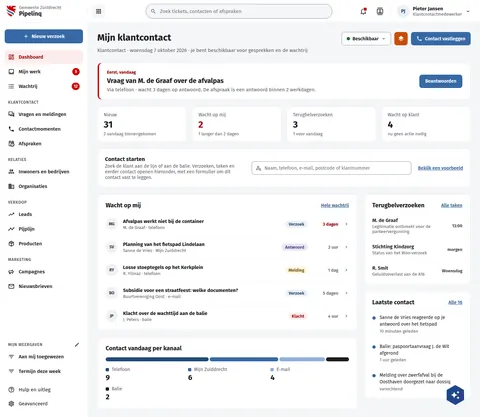
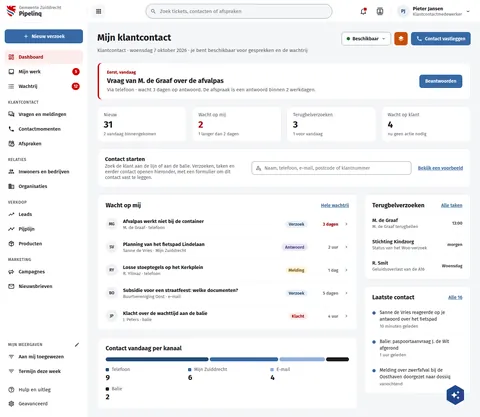
fix(screens): PqBerichtSturen and PqDashboard draw the seeded set
Anna de Vries's phone is 06 12 34 56 79 in the set (06 12 34 56 78 is
Sanne's, which PqGesprekAfronden matches). M. de Graaf's callback task on
PqDashboard is the set's "M. de Graaf terugbellen", as on PqTaak.

Assisted-by: ClaudeCode:claude-opus-5-5

Changed region(s): [[0.75, 0.53, 0.9688, 0.9353], [0.9062, 0.53, 0.9688, 0.6547]]

diff --git a/preview/screens/boards/PqDashboard.html b/preview/screens/boards/PqDashboard.html
@@ -203,7 +203,7 @@ a{color:var(--sc-primary, #3669a5)}a:hover{color:var(--sc-primary-deep, #234a78)
             <a href="PqWerkplekKlant.html" style="font-size: 14px; font-weight: 600">Bekijk een voorbeeld</a>
           </div></section><div style="display: flex; flex-wrap: wrap; gap: 20px; align-items: flex-start">
           <div style="flex: 999 1 520px; min-width: 0; display: flex; flex-direction: column; gap: 20px"><section style="background: #ffffff; border: 1px solid var(--sc-work-line, #e4e6ea); border-radius: 12px; padding: 22px 24px 10px; display: flex; flex-direction: column; gap: 4px"><div style="display: flex; justify-content: space-between; align-items: center; margin-bottom: 8px"><h2 style="margin: 0; font-size: 18px; font-weight: 700; color: var(--sc-work-ink, #1b1c1d)">Wacht op mij</h2><a href="PqWachtrij.html" style="font-size: 14px; font-weight: 600">Hele wachtrij</a></div><a href="PqTicket.html" style="display: flex; flex-wrap: wrap; align-items: center; gap: 8px 16px; padding: 14px 0; border-top: 1px solid var(--sc-work-soft, #eef0f3); color: var(--sc-work-ink, #1b1c1d); text-decoration: none"><span style="width: 36px; height: 36px; flex: none; border-radius: 18px; background: var(--sc-work-chip, #f0f1f3); color: var(--sc-work-text, #3d4047); display: inline-flex; align-items: center; justify-content: center; font-size: 12px; font-weight: 700">MG</span><span style="flex: 1 1 260px; display: flex; flex-direction: column; gap: 2px"><strong style="font-size: 15px">Afvalpas werkt niet bij de container</strong><span style="font-size: 13px; color: var(--sc-work-muted, #5e6168)">M. de Graaf · telefoon</span></span><span style="display: inline-block; padding: 3px 10px; border-radius: 12px; font-size: 13px; font-weight: 600; white-space: nowrap; background: var(--sc-primary-light, #eaf0f7); color: var(--sc-primary-deep, #234a78)">Verzoek</span><span style="flex: 0 0 76px; text-align: right; font-size: 13px; font-weight: 700; color: var(--sc-accent-deep, #a30000)">3 dagen</span><svg width="16" height="16" viewbox="0 0 24 24" fill="#3669a5" style="flex: none;fill:var(--sc-primary, #3669a5)"><path d="M8.59,16.58L13.17,12L8.59,7.41L10,6L16,12L10,18L8.59,16.58Z"></path></svg></a><a href="PqTicket.html" style="display: flex; flex-wrap: wrap; align-items: center; gap: 8px 16px; padding: 14px 0; border-top: 1px solid var(--sc-work-soft, #eef0f3); color: var(--sc-work-ink, #1b1c1d); text-decoration: none"><span style="width: 36px; height: 36px; flex: none; border-radius: 18px; background: var(--sc-work-chip, #f0f1f3); color: var(--sc-work-text, #3d4047); display: inline-flex; align-items: center; justify-content: center; font-size: 12px; font-weight: 700">SV</span><span style="flex: 1 1 260px; display: flex; flex-direction: column; gap: 2px"><strong style="font-size: 15px">Planning van het fietspad Lindelaan</strong><span style="font-size: 13px; color: var(--sc-work-muted, #5e6168)">Sanne de Vries · Mijn Zuiddrecht</span></span><span style="display: inline-block; padding: 3px 10px; border-radius: 12px; font-size: 13px; font-weight: 600; white-space: nowrap; background: #e8e6f6; color: #4a3f8f">Antwoord</span><span style="flex: 0 0 76px; text-align: right; font-size: 13px; font-weight: 500; color: var(--sc-work-muted, #5e6168)">2 uur</span><svg width="16" height="16" viewbox="0 0 24 24" fill="#3669a5" style="flex: none;fill:var(--sc-primary, #3669a5)"><path d="M8.59,16.58L13.17,12L8.59,7.41L10,6L16,12L10,18L8.59,16.58Z"></path></svg></a><a href="PqTicket.html" style="display: flex; flex-wrap: wrap; align-items: center; gap: 8px 16px; padding: 14px 0; border-top: 1px solid var(--sc-work-soft, #eef0f3); color: var(--sc-work-ink, #1b1c1d); text-decoration: none"><span style="width: 36px; height: 36px; flex: none; border-radius: 18px; background: var(--sc-work-chip, #f0f1f3); color: var(--sc-work-text, #3d4047); display: inline-flex; align-items: center; justify-content: center; font-size: 12px; font-weight: 700">RY</span><span style="flex: 1 1 260px; display: flex; flex-direction: column; gap: 2px"><strong style="font-size: 15px">Losse stoeptegels op het Kerkplein</strong><span style="font-size: 13px; color: var(--sc-work-muted, #5e6168)">R. Yilmaz · telefoon</span></span><span style="display: inline-block; padding: 3px 10px; border-radius: 12px; font-size: 13px; font-weight: 600; white-space: nowrap; background: #fff4de; color: #7a4f00">Melding</span><span style="flex: 0 0 76px; text-align: right; font-size: 13px; font-weight: 500; color: var(--sc-work-muted, #5e6168)">1 dag</span><svg width="16" height="16" viewbox="0 0 24 24" fill="#3669a5" style="flex: none;fill:var(--sc-primary, #3669a5)"><path d="M8.59,16.58L13.17,12L8.59,7.41L10,6L16,12L10,18L8.59,16.58Z"></path></svg></a><a href="PqTicket.html" style="display: flex; flex-wrap: wrap; align-items: center; gap: 8px 16px; padding: 14px 0; border-top: 1px solid var(--sc-work-soft, #eef0f3); color: var(--sc-work-ink, #1b1c1d); text-decoration: none"><span style="width: 36px; height: 36px; flex: none; border-radius: 18px; background: var(--sc-work-chip, #f0f1f3); color: var(--sc-work-text, #3d4047); display: inline-flex; align-items: center; justify-content: center; font-size: 12px; font-weight: 700">BO</span><span style="flex: 1 1 260px; display: flex; flex-direction: column; gap: 2px"><strong style="font-size: 15px">Subsidie voor een straatfeest: welke documenten?</strong><span style="font-size: 13px; color: var(--sc-work-muted, #5e6168)">Buurtvereniging Oost · e-mail</span></span><span style="display: inline-block; padding: 3px 10px; border-radius: 12px; font-size: 13px; font-weight: 600; white-space: nowrap; background: var(--sc-primary-light, #eaf0f7); color: var(--sc-primary-deep, #234a78)">Verzoek</span><span style="flex: 0 0 76px; text-align: right; font-size: 13px; font-weight: 500; color: var(--sc-work-muted, #5e6168)">5 dagen</span><svg width="16" height="16" viewbox="0 0 24 24" fill="#3669a5" style="flex: none;fill:var(--sc-primary, #3669a5)"><path d="M8.59,16.58L13.17,12L8.59,7.41L10,6L16,12L10,18L8.59,16.58Z"></path></svg></a><a href="PqTicket.html" style="display: flex; flex-wrap: wrap; align-items: center; gap: 8px 16px; padding: 14px 0; border-top: 1px solid var(--sc-work-soft, #eef0f3); color: var(--sc-work-ink, #1b1c1d); text-decoration: none"><span style="width: 36px; height: 36px; flex: none; border-radius: 18px; background: var(--sc-work-chip, #f0f1f3); color: var(--sc-work-text, #3d4047); display: inline-flex; align-items: center; justify-content: center; font-size: 12px; font-weight: 700">JP</span><span style="flex: 1 1 260px; display: flex; flex-direction: column; gap: 2px"><strong style="font-size: 15px">Klacht over de wachttijd aan de balie</strong><span style="font-size: 13px; color: var(--sc-work-muted, #5e6168)">J. Peters · balie</span></span><span style="display: inline-block; padding: 3px 10px; border-radius: 12px; font-size: 13px; font-weight: 600; white-space: nowrap; background: #fcedec; color: var(--sc-accent-deep, #a30000)">Klacht</span><span style="flex: 0 0 76px; text-align: right; font-size: 13px; font-weight: 500; color: var(--sc-work-muted, #5e6168)">4 uur</span><svg width="16" height="16" viewbox="0 0 24 24" fill="#3669a5" style="flex: none;fill:var(--sc-primary, #3669a5)"><path d="M8.59,16.58L13.17,12L8.59,7.41L10,6L16,12L10,18L8.59,16.58Z"></path></svg></a></section><section style="background: #ffffff; border: 1px solid var(--sc-work-line, #e4e6ea); border-radius: 12px; padding: 22px 24px; display: flex; flex-direction: column; gap: 16px"><h2 style="margin: 0; font-size: 18px; font-weight: 700; color: var(--sc-work-ink, #1b1c1d)">Contact vandaag per kanaal</h2><div aria-hidden="true" style="display: flex; gap: 3px; height: 12px"><span style="flex: 9; border-radius: 6px; background: var(--sc-primary-deep, #234a78)"></span><span style="flex: 6; border-radius: 6px; background: var(--sc-primary, #3669a5)"></span><span style="flex: 4; border-radius: 6px; background: #8fb0d9"></span><span style="flex: 2; border-radius: 6px; background: var(--sc-work-ink, #1b1c1d)"></span></div><ul style="margin: 0; padding: 0; list-style: none; display: grid; grid-template-columns: repeat(auto-fit, minmax(200px, 1fr)); gap: 12px"><li style="display: flex; flex-direction: column; gap: 2px"><span style="display: flex; align-items: center; gap: 8px; font-size: 14px; color: var(--sc-work-muted, #5e6168)"><span style="width: 10px; height: 10px; border-radius: 3px; background: var(--sc-primary-deep, #234a78)"></span>Telefoon</span><strong style="font-size: 22px; font-weight: 700">9</strong></li><li style="display: flex; flex-direction: column; gap: 2px"><span style="display: flex; align-items: center; gap: 8px; font-size: 14px; color: var(--sc-work-muted, #5e6168)"><span style="width: 10px; height: 10px; border-radius: 3px; background: var(--sc-primary, #3669a5)"></span>Mijn Zuiddrecht</span><strong style="font-size: 22px; font-weight: 700">6</strong></li><li style="display: flex; flex-direction: column; gap: 2px"><span style="display: flex; align-items: center; gap: 8px; font-size: 14px; color: var(--sc-work-muted, #5e6168)"><span style="width: 10px; height: 10px; border-radius: 3px; background: #8fb0d9"></span>E-mail</span><strong style="font-size: 22px; font-weight: 700">4</strong></li><li style="display: flex; flex-direction: column; gap: 2px"><span style="display: flex; align-items: center; gap: 8px; font-size: 14px; color: var(--sc-work-muted, #5e6168)"><span style="width: 10px; height: 10px; border-radius: 3px; background: var(--sc-work-ink, #1b1c1d)"></span>Balie</span><strong style="font-size: 22px; font-weight: 700">2</strong></li></ul></section></div>
-          <div style="flex: 1 1 320px; min-width: 0; display: flex; flex-direction: column; gap: 20px"><section style="background: #ffffff; border: 1px solid var(--sc-work-line, #e4e6ea); border-radius: 12px; padding: 22px 24px 10px; display: flex; flex-direction: column; gap: 4px"><div style="display: flex; justify-content: space-between; align-items: center; margin-bottom: 8px"><h2 style="margin: 0; font-size: 18px; font-weight: 700; color: var(--sc-work-ink, #1b1c1d)">Terugbelverzoeken</h2><a href="PqTaken.html" style="font-size: 14px; font-weight: 600">Alle taken</a></div><div style="display: flex; align-items: center; gap: 12px; padding: 12px 0; border-top: 1px solid var(--sc-work-soft, #eef0f3)"><span style="flex: 1; display: flex; flex-direction: column; gap: 2px"><span style="font-size: 15px; font-weight: 600">M. de Graaf</span><span style="font-size: 13px; color: var(--sc-work-muted, #5e6168)">Legitimatie ontbreekt voor de parkeervergunning</span></span><span style="font-size: 13px; font-weight: 600; color: var(--sc-work-text, #3d4047)">13:00</span></div><div style="display: flex; align-items: center; gap: 12px; padding: 12px 0; border-top: 1px solid var(--sc-work-soft, #eef0f3)"><span style="flex: 1; display: flex; flex-direction: column; gap: 2px"><span style="font-size: 15px; font-weight: 600">Stichting Kindzorg</span><span style="font-size: 13px; color: var(--sc-work-muted, #5e6168)">Status van het Woo-verzoek</span></span><span style="font-size: 13px; font-weight: 600; color: var(--sc-work-text, #3d4047)">morgen</span></div><div style="display: flex; align-items: center; gap: 12px; padding: 12px 0; border-top: 1px solid var(--sc-work-soft, #eef0f3)"><span style="flex: 1; display: flex; flex-direction: column; gap: 2px"><span style="font-size: 15px; font-weight: 600">R. Smit</span><span style="font-size: 13px; color: var(--sc-work-muted, #5e6168)">Geluidsoverlast van de A16</span></span><span style="font-size: 13px; font-weight: 600; color: var(--sc-work-text, #3d4047)">Woensdag</span></div></section><section style="background: #ffffff; border: 1px solid var(--sc-work-line, #e4e6ea); border-radius: 12px; padding: 22px 24px 10px; display: flex; flex-direction: column; gap: 4px"><div style="display: flex; justify-content: space-between; align-items: center; margin-bottom: 8px"><h2 style="margin: 0; font-size: 18px; font-weight: 700; color: var(--sc-work-ink, #1b1c1d)">Laatste contact</h2><a href="PqContactmomenten.html" style="font-size: 14px; font-weight: 600">Alle 16</a></div><div style="display: flex; gap: 12px; padding: 12px 0; border-top: 1px solid var(--sc-work-soft, #eef0f3)"><span style="width: 10px; height: 10px; flex: none; margin-top: 6px; border-radius: 5px; background: var(--sc-primary, #3669a5)"></span><span style="display: flex; flex-direction: column; gap: 2px"><span style="font-size: 14px; line-height: 1.45">Sanne de Vries reageerde op je antwoord over het fietspad</span><span style="font-size: 13px; color: var(--sc-work-muted, #5e6168)">10 minuten geleden</span></span></div><div style="display: flex; gap: 12px; padding: 12px 0; border-top: 1px solid var(--sc-work-soft, #eef0f3)"><span style="width: 10px; height: 10px; flex: none; margin-top: 6px; border-radius: 5px; background: var(--sc-primary, #3669a5)"></span><span style="display: flex; flex-direction: column; gap: 2px"><span style="font-size: 14px; line-height: 1.45">Balie: paspoortaanvraag J. de Wit afgerond</span><span style="font-size: 13px; color: var(--sc-work-muted, #5e6168)">1 uur geleden</span></span></div><div style="display: flex; gap: 12px; padding: 12px 0; border-top: 1px solid var(--sc-work-soft, #eef0f3)"><span style="width: 10px; height: 10px; flex: none; margin-top: 6px; border-radius: 5px; background: var(--sc-primary, #3669a5)"></span><span style="display: flex; flex-direction: column; gap: 2px"><span style="font-size: 14px; line-height: 1.45">Melding over zwerfafval bij de Oosthaven doorgezet naar dossiq</span><span style="font-size: 13px; color: var(--sc-work-muted, #5e6168)">vanochtend</span></span></div></section></div>
+          <div style="flex: 1 1 320px; min-width: 0; display: flex; flex-direction: column; gap: 20px"><section style="background: #ffffff; border: 1px solid var(--sc-work-line, #e4e6ea); border-radius: 12px; padding: 22px 24px 10px; display: flex; flex-direction: column; gap: 4px"><div style="display: flex; justify-content: space-between; align-items: center; margin-bottom: 8px"><h2 style="margin: 0; font-size: 18px; font-weight: 700; color: var(--sc-work-ink, #1b1c1d)">Terugbelverzoeken</h2><a href="PqTaken.html" style="font-size: 14px; font-weight: 600">Alle taken</a></div><div style="display: flex; align-items: center; gap: 12px; padding: 12px 0; border-top: 1px solid var(--sc-work-soft, #eef0f3)"><span style="flex: 1; display: flex; flex-direction: column; gap: 2px"><span style="font-size: 15px; font-weight: 600">M. de Graaf</span><span style="font-size: 13px; color: var(--sc-work-muted, #5e6168)">M. de Graaf terugbellen</span></span><span style="font-size: 13px; font-weight: 600; color: var(--sc-work-text, #3d4047)">13:00</span></div><div style="display: flex; align-items: center; gap: 12px; padding: 12px 0; border-top: 1px solid var(--sc-work-soft, #eef0f3)"><span style="flex: 1; display: flex; flex-direction: column; gap: 2px"><span style="font-size: 15px; font-weight: 600">Stichting Kindzorg</span><span style="font-size: 13px; color: var(--sc-work-muted, #5e6168)">Status van het Woo-verzoek</span></span><span style="font-size: 13px; font-weight: 600; color: var(--sc-work-text, #3d4047)">morgen</span></div><div style="display: flex; align-items: center; gap: 12px; padding: 12px 0; border-top: 1px solid var(--sc-work-soft, #eef0f3)"><span style="flex: 1; display: flex; flex-direction: column; gap: 2px"><span style="font-size: 15px; font-weight: 600">R. Smit</span><span style="font-size: 13px; color: var(--sc-work-muted, #5e6168)">Geluidsoverlast van de A16</span></span><span style="font-size: 13px; font-weight: 600; color: var(--sc-work-text, #3d4047)">Woensdag</span></div></section><section style="background: #ffffff; border: 1px solid var(--sc-work-line, #e4e6ea); border-radius: 12px; padding: 22px 24px 10px; display: flex; flex-direction: column; gap: 4px"><div style="display: flex; justify-content: space-between; align-items: center; margin-bottom: 8px"><h2 style="margin: 0; font-size: 18px; font-weight: 700; color: var(--sc-work-ink, #1b1c1d)">Laatste contact</h2><a href="PqContactmomenten.html" style="font-size: 14px; font-weight: 600">Alle 16</a></div><div style="display: flex; gap: 12px; padding: 12px 0; border-top: 1px solid var(--sc-work-soft, #eef0f3)"><span style="width: 10px; height: 10px; flex: none; margin-top: 6px; border-radius: 5px; background: var(--sc-primary, #3669a5)"></span><span style="display: flex; flex-direction: column; gap: 2px"><span style="font-size: 14px; line-height: 1.45">Sanne de Vries reageerde op je antwoord over het fietspad</span><span style="font-size: 13px; color: var(--sc-work-muted, #5e6168)">10 minuten geleden</span></span></div><div style="display: flex; gap: 12px; padding: 12px 0; border-top: 1px solid var(--sc-work-soft, #eef0f3)"><span style="width: 10px; height: 10px; flex: none; margin-top: 6px; border-radius: 5px; background: var(--sc-primary, #3669a5)"></span><span style="display: flex; flex-direction: column; gap: 2px"><span style="font-size: 14px; line-height: 1.45">Balie: paspoortaanvraag J. de Wit afgerond</span><span style="font-size: 13px; color: var(--sc-work-muted, #5e6168)">1 uur geleden</span></span></div><div style="display: flex; gap: 12px; padding: 12px 0; border-top: 1px solid var(--sc-work-soft, #eef0f3)"><span style="width: 10px; height: 10px; flex: none; margin-top: 6px; border-radius: 5px; background: var(--sc-primary, #3669a5)"></span><span style="display: flex; flex-direction: column; gap: 2px"><span style="font-size: 14px; line-height: 1.45">Melding over zwerfafval bij de Oosthaven doorgezet naar dossiq</span><span style="font-size: 13px; color: var(--sc-work-muted, #5e6168)">vanochtend</span></span></div></section></div>
         </div>
       </main>
     </div>

diff --git a/screens-src/zuiddrecht/PqDashboard.dc.html b/screens-src/zuiddrecht/PqDashboard.dc.html
@@ -44,7 +44,7 @@ a{color:#3669a5}a:hover{color:#234a78}
             <a href="PqWerkplekKlant.dc.html" style="font-size: 14px; font-weight: 600">Bekijk een voorbeeld</a>
           </div></section><div style="display: flex; flex-wrap: wrap; gap: 20px; align-items: flex-start">
           <div style="flex: 999 1 520px; min-width: 0; display: flex; flex-direction: column; gap: 20px"><section style="background: #ffffff; border: 1px solid #e4e6ea; border-radius: 12px; padding: 22px 24px 10px; display: flex; flex-direction: column; gap: 4px"><div style="display: flex; justify-content: space-between; align-items: center; margin-bottom: 8px"><h2 style="margin: 0; font-size: 18px; font-weight: 700; color: #1b1c1d">Wacht op mij</h2><a href="PqWachtrij.dc.html" style="font-size: 14px; font-weight: 600">Hele wachtrij</a></div><a href="PqTicket.dc.html" style="display: flex; flex-wrap: wrap; align-items: center; gap: 8px 16px; padding: 14px 0; border-top: 1px solid #eef0f3; color: #1b1c1d; text-decoration: none"><span style="width: 36px; height: 36px; flex: none; border-radius: 18px; background: #f0f1f3; color: #3d4047; display: inline-flex; align-items: center; justify-content: center; font-size: 12px; font-weight: 700">MG</span><span style="flex: 1 1 260px; display: flex; flex-direction: column; gap: 2px"><strong style="font-size: 15px">Afvalpas werkt niet bij de container</strong><span style="font-size: 13px; color: #5e6168">M. de Graaf · telefoon</span></span><span style="display: inline-block; padding: 3px 10px; border-radius: 12px; font-size: 13px; font-weight: 600; white-space: nowrap; background: #eaf0f7; color: #234a78">Verzoek</span><span style="flex: 0 0 76px; text-align: right; font-size: 13px; font-weight: 700; color: #a30000">3 dagen</span><svg width="16" height="16" viewBox="0 0 24 24" fill="#3669a5" style="flex: none"><path d="M8.59,16.58L13.17,12L8.59,7.41L10,6L16,12L10,18L8.59,16.58Z"></path></svg></a><a href="PqTicket.dc.html" style="display: flex; flex-wrap: wrap; align-items: center; gap: 8px 16px; padding: 14px 0; border-top: 1px solid #eef0f3; color: #1b1c1d; text-decoration: none"><span style="width: 36px; height: 36px; flex: none; border-radius: 18px; background: #f0f1f3; color: #3d4047; display: inline-flex; align-items: center; justify-content: center; font-size: 12px; font-weight: 700">SV</span><span style="flex: 1 1 260px; display: flex; flex-direction: column; gap: 2px"><strong style="font-size: 15px">Planning van het fietspad Lindelaan</strong><span style="font-size: 13px; color: #5e6168">Sanne de Vries · Mijn Zuiddrecht</span></span><span style="display: inline-block; padding: 3px 10px; border-radius: 12px; font-size: 13px; font-weight: 600; white-space: nowrap; background: #e8e6f6; color: #4a3f8f">Antwoord</span><span style="flex: 0 0 76px; text-align: right; font-size: 13px; font-weight: 500; color: #5e6168">2 uur</span><svg width="16" height="16" viewBox="0 0 24 24" fill="#3669a5" style="flex: none"><path d="M8.59,16.58L13.17,12L8.59,7.41L10,6L16,12L10,18L8.59,16.58Z"></path></svg></a><a href="PqTicket.dc.html" style="display: flex; flex-wrap: wrap; align-items: center; gap: 8px 16px; padding: 14px 0; border-top: 1px solid #eef0f3; color: #1b1c1d; text-decoration: none"><span style="width: 36px; height: 36px; flex: none; border-radius: 18px; background: #f0f1f3; color: #3d4047; display: inline-flex; align-items: center; justify-content: center; font-size: 12px; font-weight: 700">RY</span><span style="flex: 1 1 260px; display: flex; flex-direction: column; gap: 2px"><strong style="font-size: 15px">Losse stoeptegels op het Kerkplein</strong><span style="font-size: 13px; color: #5e6168">R. Yilmaz · telefoon</span></span><span style="display: inline-block; padding: 3px 10px; border-radius: 12px; font-size: 13px; font-weight: 600; white-space: nowrap; background: #fff4de; color: #7a4f00">Melding</span><span style="flex: 0 0 76px; text-align: right; font-size: 13px; font-weight: 500; color: #5e6168">1 dag</span><svg width="16" height="16" viewBox="0 0 24 24" fill="#3669a5" style="flex: none"><path d="M8.59,16.58L13.17,12L8.59,7.41L10,6L16,12L10,18L8.59,16.58Z"></path></svg></a><a href="PqTicket.dc.html" style="display: flex; flex-wrap: wrap; align-items: center; gap: 8px 16px; padding: 14px 0; border-top: 1px solid #eef0f3; color: #1b1c1d; text-decoration: none"><span style="width: 36px; height: 36px; flex: none; border-radius: 18px; background: #f0f1f3; color: #3d4047; display: inline-flex; align-items: center; justify-content: center; font-size: 12px; font-weight: 700">BO</span><span style="flex: 1 1 260px; display: flex; flex-direction: column; gap: 2px"><strong style="font-size: 15px">Subsidie voor een straatfeest: welke documenten?</strong><span style="font-size: 13px; color: #5e6168">Buurtvereniging Oost · e-mail</span></span><span style="display: inline-block; padding: 3px 10px; border-radius: 12px; font-size: 13px; font-weight: 600; white-space: nowrap; background: #eaf0f7; color: #234a78">Verzoek</span><span style="flex: 0 0 76px; text-align: right; font-size: 13px; font-weight: 500; color: #5e6168">5 dagen</span><svg width="16" height="16" viewBox="0 0 24 24" fill="#3669a5" style="flex: none"><path d="M8.59,16.58L13.17,12L8.59,7.41L10,6L16,12L10,18L8.59,16.58Z"></path></svg></a><a href="PqTicket.dc.html" style="display: flex; flex-wrap: wrap; align-items: center; gap: 8px 16px; padding: 14px 0; border-top: 1px solid #eef0f3; color: #1b1c1d; text-decoration: none"><span style="width: 36px; height: 36px; flex: none; border-radius: 18px; background: #f0f1f3; color: #3d4047; display: inline-flex; align-items: center; justify-content: center; font-size: 12px; font-weight: 700">JP</span><span style="flex: 1 1 260px; display: flex; flex-direction: column; gap: 2px"><strong style="font-size: 15px">Klacht over de wachttijd aan de balie</strong><span style="font-size: 13px; color: #5e6168">J. Peters · balie</span></span><span style="display: inline-block; padding: 3px 10px; border-radius: 12px; font-size: 13px; font-weight: 600; white-space: nowrap; background: #fcedec; color: #a30000">Klacht</span><span style="flex: 0 0 76px; text-align: right; font-size: 13px; font-weight: 500; color: #5e6168">4 uur</span><svg width="16" height="16" viewBox="0 0 24 24" fill="#3669a5" style="flex: none"><path d="M8.59,16.58L13.17,12L8.59,7.41L10,6L16,12L10,18L8.59,16.58Z"></path></svg></a></section><section style="background: #ffffff; border: 1px solid #e4e6ea; border-radius: 12px; padding: 22px 24px; display: flex; flex-direction: column; gap: 16px"><h2 style="margin: 0; font-size: 18px; font-weight: 700; color: #1b1c1d">Contact vandaag per kanaal</h2><div aria-hidden="true" style="display: flex; gap: 3px; height: 12px"><span style="flex: 9; border-radius: 6px; background: #234a78"></span><span style="flex: 6; border-radius: 6px; background: #3669a5"></span><span style="flex: 4; border-radius: 6px; background: #8fb0d9"></span><span style="flex: 2; border-radius: 6px; background: #1b1c1d"></span></div><ul style="margin: 0; padding: 0; list-style: none; display: grid; grid-template-columns: repeat(auto-fit, minmax(200px, 1fr)); gap: 12px"><li style="display: flex; flex-direction: column; gap: 2px"><span style="display: flex; align-items: center; gap: 8px; font-size: 14px; color: #5e6168"><span style="width: 10px; height: 10px; border-radius: 3px; background: #234a78"></span>Telefoon</span><strong style="font-size: 22px; font-weight: 700">9</strong></li><li style="display: flex; flex-direction: column; gap: 2px"><span style="display: flex; align-items: center; gap: 8px; font-size: 14px; color: #5e6168"><span style="width: 10px; height: 10px; border-radius: 3px; background: #3669a5"></span>Mijn Zuiddrecht</span><strong style="font-size: 22px; font-weight: 700">6</strong></li><li style="display: flex; flex-direction: column; gap: 2px"><span style="display: flex; align-items: center; gap: 8px; font-size: 14px; color: #5e6168"><span style="width: 10px; height: 10px; border-radius: 3px; background: #8fb0d9"></span>E-mail</span><strong style="font-size: 22px; font-weight: 700">4</strong></li><li style="display: flex; flex-direction: column; gap: 2px"><span style="display: flex; align-items: center; gap: 8px; font-size: 14px; color: #5e6168"><span style="width: 10px; height: 10px; border-radius: 3px; background: #1b1c1d"></span>Balie</span><strong style="font-size: 22px; font-weight: 700">2</strong></li></ul></section></div>
-          <div style="flex: 1 1 320px; min-width: 0; display: flex; flex-direction: column; gap: 20px"><section style="background: #ffffff; border: 1px solid #e4e6ea; border-radius: 12px; padding: 22px 24px 10px; display: flex; flex-direction: column; gap: 4px"><div style="display: flex; justify-content: space-between; align-items: center; margin-bottom: 8px"><h2 style="margin: 0; font-size: 18px; font-weight: 700; color: #1b1c1d">Terugbelverzoeken</h2><a href="PqTaken.dc.html" style="font-size: 14px; font-weight: 600">Alle taken</a></div><div style="display: flex; align-items: center; gap: 12px; padding: 12px 0; border-top: 1px solid #eef0f3"><span style="flex: 1; display: flex; flex-direction: column; gap: 2px"><span style="font-size: 15px; font-weight: 600">M. de Graaf</span><span style="font-size: 13px; color: #5e6168">Legitimatie ontbreekt voor de parkeervergunning</span></span><span style="font-size: 13px; font-weight: 600; color: #3d4047">13:00</span></div><div style="display: flex; align-items: center; gap: 12px; padding: 12px 0; border-top: 1px solid #eef0f3"><span style="flex: 1; display: flex; flex-direction: column; gap: 2px"><span style="font-size: 15px; font-weight: 600">Stichting Kindzorg</span><span style="font-size: 13px; color: #5e6168">Status van het Woo-verzoek</span></span><span style="font-size: 13px; font-weight: 600; color: #3d4047">morgen</span></div><div style="display: flex; align-items: center; gap: 12px; padding: 12px 0; border-top: 1px solid #eef0f3"><span style="flex: 1; display: flex; flex-direction: column; gap: 2px"><span style="font-size: 15px; font-weight: 600">R. Smit</span><span style="font-size: 13px; color: #5e6168">Geluidsoverlast van de A16</span></span><span style="font-size: 13px; font-weight: 600; color: #3d4047">Woensdag</span></div></section><section style="background: #ffffff; border: 1px solid #e4e6ea; border-radius: 12px; padding: 22px 24px 10px; display: flex; flex-direction: column; gap: 4px"><div style="display: flex; justify-content: space-between; align-items: center; margin-bottom: 8px"><h2 style="margin: 0; font-size: 18px; font-weight: 700; color: #1b1c1d">Laatste contact</h2><a href="PqContactmomenten.dc.html" style="font-size: 14px; font-weight: 600">Alle 16</a></div><div style="display: flex; gap: 12px; padding: 12px 0; border-top: 1px solid #eef0f3"><span style="width: 10px; height: 10px; flex: none; margin-top: 6px; border-radius: 5px; background: #3669a5"></span><span style="display: flex; flex-direction: column; gap: 2px"><span style="font-size: 14px; line-height: 1.45">Sanne de Vries reageerde op je antwoord over het fietspad</span><span style="font-size: 13px; color: #5e6168">10 minuten geleden</span></span></div><div style="display: flex; gap: 12px; padding: 12px 0; border-top: 1px solid #eef0f3"><span style="width: 10px; height: 10px; flex: none; margin-top: 6px; border-radius: 5px; background: #3669a5"></span><span style="display: flex; flex-direction: column; gap: 2px"><span style="font-size: 14px; line-height: 1.45">Balie: paspoortaanvraag J. de Wit afgerond</span><span style="font-size: 13px; color: #5e6168">1 uur geleden</span></span></div><div style="display: flex; gap: 12px; padding: 12px 0; border-top: 1px solid #eef0f3"><span style="width: 10px; height: 10px; flex: none; margin-top: 6px; border-radius: 5px; background: #3669a5"></span><span style="display: flex; flex-direction: column; gap: 2px"><span style="font-size: 14px; line-height: 1.45">Melding over zwerfafval bij de Oosthaven doorgezet naar dossiq</span><span style="font-size: 13px; color: #5e6168">vanochtend</span></span></div></section></div>
+          <div style="flex: 1 1 320px; min-width: 0; display: flex; flex-direction: column; gap: 20px"><section style="background: #ffffff; border: 1px solid #e4e6ea; border-radius: 12px; padding: 22px 24px 10px; display: flex; flex-direction: column; gap: 4px"><div style="display: flex; justify-content: space-between; align-items: center; margin-bottom: 8px"><h2 style="margin: 0; font-size: 18px; font-weight: 700; color: #1b1c1d">Terugbelverzoeken</h2><a href="PqTaken.dc.html" style="font-size: 14px; font-weight: 600">Alle taken</a></div><div style="display: flex; align-items: center; gap: 12px; padding: 12px 0; border-top: 1px solid #eef0f3"><span style="flex: 1; display: flex; flex-direction: column; gap: 2px"><span style="font-size: 15px; font-weight: 600">M. de Graaf</span><span style="font-size: 13px; color: #5e6168">M. de Graaf terugbellen</span></span><span style="font-size: 13px; font-weight: 600; color: #3d4047">13:00</span></div><div style="display: flex; align-items: center; gap: 12px; padding: 12px 0; border-top: 1px solid #eef0f3"><span style="flex: 1; display: flex; flex-direction: column; gap: 2px"><span style="font-size: 15px; font-weight: 600">Stichting Kindzorg</span><span style="font-size: 13px; color: #5e6168">Status van het Woo-verzoek</span></span><span style="font-size: 13px; font-weight: 600; color: #3d4047">morgen</span></div><div style="display: flex; align-items: center; gap: 12px; padding: 12px 0; border-top: 1px solid #eef0f3"><span style="flex: 1; display: flex; flex-direction: column; gap: 2px"><span style="font-size: 15px; font-weight: 600">R. Smit</span><span style="font-size: 13px; color: #5e6168">Geluidsoverlast van de A16</span></span><span style="font-size: 13px; font-weight: 600; color: #3d4047">Woensdag</span></div></section><section style="background: #ffffff; border: 1px solid #e4e6ea; border-radius: 12px; padding: 22px 24px 10px; display: flex; flex-direction: column; gap: 4px"><div style="display: flex; justify-content: space-between; align-items: center; margin-bottom: 8px"><h2 style="margin: 0; font-size: 18px; font-weight: 700; color: #1b1c1d">Laatste contact</h2><a href="PqContactmomenten.dc.html" style="font-size: 14px; font-weight: 600">Alle 16</a></div><div style="display: flex; gap: 12px; padding: 12px 0; border-top: 1px solid #eef0f3"><span style="width: 10px; height: 10px; flex: none; margin-top: 6px; border-radius: 5px; background: #3669a5"></span><span style="display: flex; flex-direction: column; gap: 2px"><span style="font-size: 14px; line-height: 1.45">Sanne de Vries reageerde op je antwoord over het fietspad</span><span style="font-size: 13px; color: #5e6168">10 minuten geleden</span></span></div><div style="display: flex; gap: 12px; padding: 12px 0; border-top: 1px solid #eef0f3"><span style="width: 10px; height: 10px; flex: none; margin-top: 6px; border-radius: 5px; background: #3669a5"></span><span style="display: flex; flex-direction: column; gap: 2px"><span style="font-size: 14px; line-height: 1.45">Balie: paspoortaanvraag J. de Wit afgerond</span><span style="font-size: 13px; color: #5e6168">1 uur geleden</span></span></div><div style="display: flex; gap: 12px; padding: 12px 0; border-top: 1px solid #eef0f3"><span style="width: 10px; height: 10px; flex: none; margin-top: 6px; border-radius: 5px; background: #3669a5"></span><span style="display: flex; flex-direction: column; gap: 2px"><span style="font-size: 14px; line-height: 1.45">Melding over zwerfafval bij de Oosthaven doorgezet naar dossiq</span><span style="font-size: 13px; color: #5e6168">vanochtend</span></span></div></section></div>
         </div>
       </main>
     </div>

diff --git a/preview/screens/boards/PqBerichtSturen.html b/preview/screens/boards/PqBerichtSturen.html
@@ -200,7 +200,7 @@ a{color:var(--sc-primary, #3669a5)}a:hover{color:var(--sc-primary-deep, #234a78)
           <div style="flex: 999 1 520px; min-width: 0; display: flex; flex-direction: column; gap: 20px">
             <section style="background: #ffffff; border: 1px solid var(--sc-work-line, #e4e6ea); border-radius: 12px; padding: 20px 22px; display: flex; flex-direction: column; gap: 14px">
               <h2 style="margin: 0; font-size: 17px; font-weight: 700">Inwoner</h2>
-              <dl style="margin: 0; display: grid; grid-template-columns: repeat(auto-fit, minmax(220px, 1fr)); gap: 14px 24px; font-size: 15px"><div style="display: flex; flex-direction: column; gap: 2px"><dt style="font-size: 13px; color: var(--sc-work-muted, #5e6168)">Naam</dt><dd style="margin: 0">Anna de Vries</dd></div><div style="display: flex; flex-direction: column; gap: 2px"><dt style="font-size: 13px; color: var(--sc-work-muted, #5e6168)">Geboortedatum</dt><dd style="margin: 0">2 mei 1979</dd></div><div style="display: flex; flex-direction: column; gap: 2px"><dt style="font-size: 13px; color: var(--sc-work-muted, #5e6168)">Woonadres</dt><dd style="margin: 0">Parkstraat 24, 3421 AB Zuiddrecht</dd></div><div style="display: flex; flex-direction: column; gap: 2px"><dt style="font-size: 13px; color: var(--sc-work-muted, #5e6168)">Telefoon</dt><dd style="margin: 0">06 12 34 56 78</dd></div></dl>
+              <dl style="margin: 0; display: grid; grid-template-columns: repeat(auto-fit, minmax(220px, 1fr)); gap: 14px 24px; font-size: 15px"><div style="display: flex; flex-direction: column; gap: 2px"><dt style="font-size: 13px; color: var(--sc-work-muted, #5e6168)">Naam</dt><dd style="margin: 0">Anna de Vries</dd></div><div style="display: flex; flex-direction: column; gap: 2px"><dt style="font-size: 13px; color: var(--sc-work-muted, #5e6168)">Geboortedatum</dt><dd style="margin: 0">2 mei 1979</dd></div><div style="display: flex; flex-direction: column; gap: 2px"><dt style="font-size: 13px; color: var(--sc-work-muted, #5e6168)">Woonadres</dt><dd style="margin: 0">Parkstraat 24, 3421 AB Zuiddrecht</dd></div><div style="display: flex; flex-direction: column; gap: 2px"><dt style="font-size: 13px; color: var(--sc-work-muted, #5e6168)">Telefoon</dt><dd style="margin: 0">06 12 34 56 79</dd></div></dl>
             </section>
             <section style="background: #ffffff; border: 1px solid var(--sc-work-line, #e4e6ea); border-radius: 12px; padding: 20px 22px; display: flex; flex-direction: column; gap: 10px">
               <h2 style="margin: 0; font-size: 17px; font-weight: 700">Laatste contactmomenten</h2>
@@ -210,7 +210,7 @@ a{color:var(--sc-primary, #3669a5)}a:hover{color:var(--sc-primary-deep, #234a78)
           <aside style="flex: 1 1 300px; min-width: 0; display: flex; flex-direction: column; gap: 20px">
             <section style="background: #ffffff; border: 1px solid var(--sc-work-line, #e4e6ea); border-radius: 12px; padding: 20px 22px; display: flex; flex-direction: column; gap: 10px">
               <h2 style="margin: 0; font-size: 15px; font-weight: 600; color: var(--sc-work-muted, #5e6168)">Contactkanalen</h2>
-              <span style="font-size: 14px">Telefoon, mobiel: 06 12 34 56 78</span><span style="font-size: 14px">E-mail: anna.devries@example.nl</span>
+              <span style="font-size: 14px">Telefoon, mobiel: 06 12 34 56 79</span><span style="font-size: 14px">E-mail: anna.devries@example.nl</span>
             </section>
           </aside>
         </div>
@@ -220,7 +220,7 @@ a{color:var(--sc-primary, #3669a5)}a:hover{color:var(--sc-primary-deep, #234a78)
   <div style="position: absolute; inset: 0; background: rgba(27,28,29,0.45); display: flex; align-items: flex-start; justify-content: center; padding: 96px 24px 24px; box-sizing: border-box">
     <div role="dialog" aria-modal="true" aria-labelledby="pq-sm-title" style="width: 100%; max-width: 640px; background: #ffffff; border-radius: 12px; box-shadow: 0 12px 40px rgba(27,28,29,0.28); display: flex; flex-direction: column">
       <div style="display: flex; justify-content: space-between; align-items: flex-start; gap: 16px; padding: 22px 24px 0">
-        <div style="display: flex; flex-direction: column; gap: 4px"><span style="font-size: 13px; font-weight: 700; color: var(--sc-primary-deep, #234a78)">Bericht · Anna de Vries</span><h2 id="pq-sm-title" style="margin: 0; font-size: 20px; font-weight: 700">Bericht versturen</h2><span style="font-size: 14px; color: var(--sc-work-muted, #5e6168)">Aan Anna de Vries, 06 12 34 56 78</span></div>
+        <div style="display: flex; flex-direction: column; gap: 4px"><span style="font-size: 13px; font-weight: 700; color: var(--sc-primary-deep, #234a78)">Bericht · Anna de Vries</span><h2 id="pq-sm-title" style="margin: 0; font-size: 20px; font-weight: 700">Bericht versturen</h2><span style="font-size: 14px; color: var(--sc-work-muted, #5e6168)">Aan Anna de Vries, 06 12 34 56 79</span></div>
         <button type="button" aria-label="Sluiten" style="width: 36px; height: 36px; flex: none; border: 0; border-radius: 18px; background: transparent; color: var(--sc-work-text, #3d4047); display: flex; align-items: center; justify-content: center"><svg width="20" height="20" viewbox="0 0 24 24" fill="currentColor"><path d="M19,6.41L17.59,5L12,10.59L6.41,5L5,6.41L10.59,12L5,17.59L6.41,19L12,13.41L17.59,19L19,17.59L13.41,12L19,6.41Z"></path></svg></button>
       </div>
       <div style="padding: 20px 24px; display: flex; flex-direction: column; gap: 16px">

diff --git a/screens-src/zuiddrecht/PqBerichtSturen.dc.html b/screens-src/zuiddrecht/PqBerichtSturen.dc.html
@@ -41,7 +41,7 @@ a{color:#3669a5}a:hover{color:#234a78}
           <div style="flex: 999 1 520px; min-width: 0; display: flex; flex-direction: column; gap: 20px">
             <section style="background: #ffffff; border: 1px solid #e4e6ea; border-radius: 12px; padding: 20px 22px; display: flex; flex-direction: column; gap: 14px">
               <h2 style="margin: 0; font-size: 17px; font-weight: 700">Inwoner</h2>
-              <dl style="margin: 0; display: grid; grid-template-columns: repeat(auto-fit, minmax(220px, 1fr)); gap: 14px 24px; font-size: 15px"><div style="display: flex; flex-direction: column; gap: 2px"><dt style="font-size: 13px; color: #5e6168">Naam</dt><dd style="margin: 0">Anna de Vries</dd></div><div style="display: flex; flex-direction: column; gap: 2px"><dt style="font-size: 13px; color: #5e6168">Geboortedatum</dt><dd style="margin: 0">2 mei 1979</dd></div><div style="display: flex; flex-direction: column; gap: 2px"><dt style="font-size: 13px; color: #5e6168">Woonadres</dt><dd style="margin: 0">Parkstraat 24, 3421 AB Zuiddrecht</dd></div><div style="display: flex; flex-direction: column; gap: 2px"><dt style="font-size: 13px; color: #5e6168">Telefoon</dt><dd style="margin: 0">06 12 34 56 78</dd></div></dl>
+              <dl style="margin: 0; display: grid; grid-template-columns: repeat(auto-fit, minmax(220px, 1fr)); gap: 14px 24px; font-size: 15px"><div style="display: flex; flex-direction: column; gap: 2px"><dt style="font-size: 13px; color: #5e6168">Naam</dt><dd style="margin: 0">Anna de Vries</dd></div><div style="display: flex; flex-direction: column; gap: 2px"><dt style="font-size: 13px; color: #5e6168">Geboortedatum</dt><dd style="margin: 0">2 mei 1979</dd></div><div style="display: flex; flex-direction: column; gap: 2px"><dt style="font-size: 13px; color: #5e6168">Woonadres</dt><dd style="margin: 0">Parkstraat 24, 3421 AB Zuiddrecht</dd></div><div style="display: flex; flex-direction: column; gap: 2px"><dt style="font-size: 13px; color: #5e6168">Telefoon</dt><dd style="margin: 0">06 12 34 56 79</dd></div></dl>
             </section>
             <section style="background: #ffffff; border: 1px solid #e4e6ea; border-radius: 12px; padding: 20px 22px; display: flex; flex-direction: column; gap: 10px">
               <h2 style="margin: 0; font-size: 17px; font-weight: 700">Laatste contactmomenten</h2>
@@ -51,7 +51,7 @@ a{color:#3669a5}a:hover{color:#234a78}
           <aside style="flex: 1 1 300px; min-width: 0; display: flex; flex-direction: column; gap: 20px">
             <section style="background: #ffffff; border: 1px solid #e4e6ea; border-radius: 12px; padding: 20px 22px; display: flex; flex-direction: column; gap: 10px">
               <h2 style="margin: 0; font-size: 15px; font-weight: 600; color: #5e6168">Contactkanalen</h2>
-              <span style="font-size: 14px">Telefoon, mobiel: 06 12 34 56 78</span><span style="font-size: 14px">E-mail: anna.devries@example.nl</span>
+              <span style="font-size: 14px">Telefoon, mobiel: 06 12 34 56 79</span><span style="font-size: 14px">E-mail: anna.devries@example.nl</span>
             </section>
           </aside>
         </div>
@@ -61,7 +61,7 @@ a{color:#3669a5}a:hover{color:#234a78}
   <div style="position: absolute; inset: 0; background: rgba(27,28,29,0.45); display: flex; align-items: flex-start; justify-content: center; padding: 96px 24px 24px; box-sizing: border-box">
     <div role="dialog" aria-modal="true" aria-labelledby="pq-sm-title" style="width: 100%; max-width: 640px; background: #ffffff; border-radius: 12px; box-shadow: 0 12px 40px rgba(27,28,29,0.28); display: flex; flex-direction: column">
       <div style="display: flex; justify-content: space-between; align-items: flex-start; gap: 16px; padding: 22px 24px 0">
-        <div style="display: flex; flex-direction: column; gap: 4px"><span style="font-size: 13px; font-weight: 700; color: #234a78">Bericht · Anna de Vries</span><h2 id="pq-sm-title" style="margin: 0; font-size: 20px; font-weight: 700">Bericht versturen</h2><span style="font-size: 14px; color: #5e6168">Aan Anna de Vries, 06 12 34 56 78</span></div>
+        <div style="display: flex; flex-direction: column; gap: 4px"><span style="font-size: 13px; font-weight: 700; color: #234a78">Bericht · Anna de Vries</span><h2 id="pq-sm-title" style="margin: 0; font-size: 20px; font-weight: 700">Bericht versturen</h2><span style="font-size: 14px; color: #5e6168">Aan Anna de Vries, 06 12 34 56 79</span></div>
         <button type="button" aria-label="Sluiten" style="width: 36px; height: 36px; flex: none; border: 0; border-radius: 18px; background: transparent; color: #3d4047; display: flex; align-items: center; justify-content: center"><svg width="20" height="20" viewBox="0 0 24 24" fill="currentColor"><path d="M19,6.41L17.59,5L12,10.59L6.41,5L5,6.41L10.59,12L5,17.59L6.41,19L12,13.41L17.59,19L19,17.59L13.41,12L19,6.41Z"></path></svg></button>
       </div>
       <div style="padding: 20px 24px; display: flex; flex-direction: column; gap: 16px">
